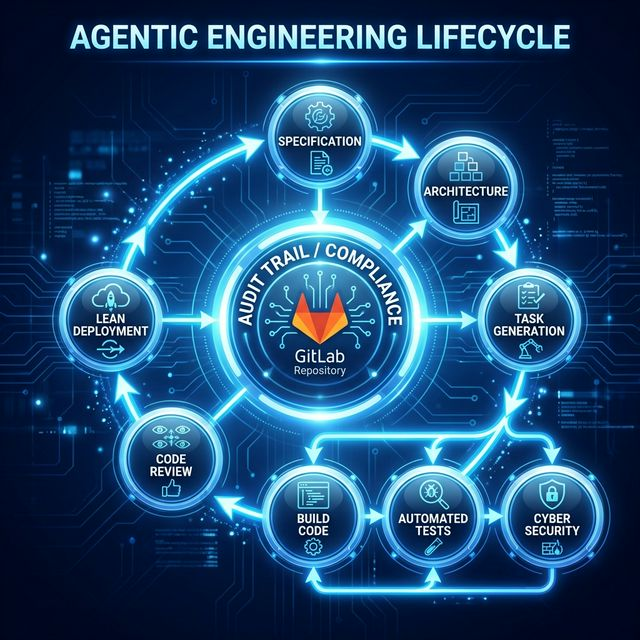
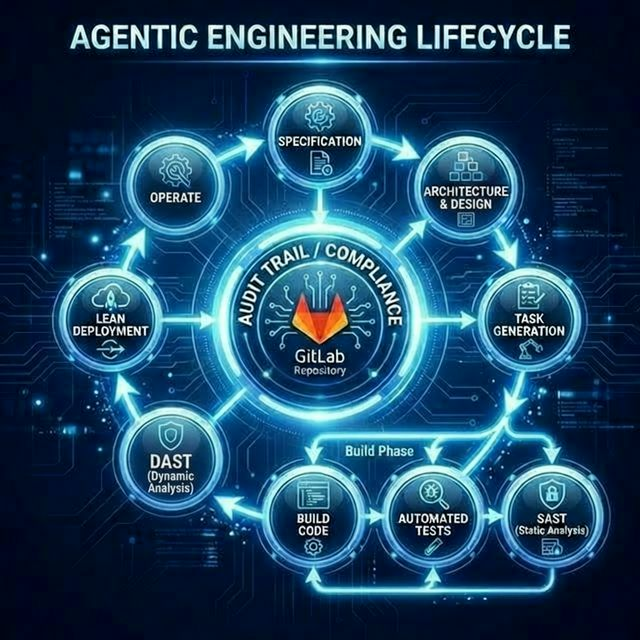
feat: Enhance the engineering lifecycle with explicit SAST, DAST, and Operate phases, and update AI roadmap categories.

diff --git a/content/engineering/engineering_lifecycle/index.md b/content/engineering/engineering_lifecycle/index.md
@@ -31,11 +31,13 @@ graph TD
     subgraph Parallel Execution
         Build["4. Building Code<br/>(Agent Workbench)"]
         Test["5. Automated Tests"]
-        Security["6. Cyber/Security Agent"]
+        SAST["6. SAST<br/>(Static Analysis)"]
     end
     
     Review["7. Code Review & Auditing<br/>(GitLab MR)"]
     Deploy["8. Lean Deployment<br/>(Kanban to Prod)"]
+    DAST["9. DAST & Monitoring<br/>(Dynamic Analysis)"]
+    Operate["10. Operate & Observability<br/>(Production)"]
     
     %% Center / Repository / Audit
     GitLab[("GitLab Repository<br/>(Source of Truth)")]
@@ -52,33 +54,43 @@ graph TD
     %% The Fork
     TaskGen -->|Decomposed| Build
     TaskGen -->|Decomposed| Test
-    TaskGen -->|Decomposed| Security
+    TaskGen -->|Decomposed| SAST
     
     %% Convergence to Review
     Build -->|MR| Review
     Test -->|MR| Review
-    Security -->|Clearance| Review
+    SAST -->|Clearance| Review
     
     %% Iterative Feedback Loops
     Review -.->|Logic Flaw| TaskGen
     Review -.->|Bug/Fix Required| Build
     Review -.->|Missing Coverage| Test
-    Review -.->|Vulnerability Found| Security
+    Review -.->|Vulnerability Found| SAST
     
-    %% Final deployment
+    %% Parallel post-review
     Review -->|Approved| Deploy
+    Review -->|Approved| DAST
+    
+    %% Operate Phase
+    Deploy --> Operate
+    DAST --> Operate
+    Operate -->|New Feature Ideas| Spec
     
     %% Audit & GitLab links
     Build -.-> GitLab
     Test -.-> GitLab
-    Security -.-> GitLab
+    SAST -.-> GitLab
     Review -.-> GitLab
+    DAST -.-> GitLab
+    Operate -.-> GitLab
     
     Spec ===>|Logs| Audit
     Arch ===>|Logs| Audit
     TaskGen ===>|Logs| Audit
     GitLab ===>|Commits/Revisions| Audit
     Deploy ===>|Release Tags| Audit
+    DAST ===>|Scan Reports| Audit
+    Operate ===>|Usage Metrics| Audit
 ```
 
 ---
@@ -123,11 +135,11 @@ Code and the tests that validate it are generated synchronously by agents. Test-
 * **Agentic Tools Used**: Windsurf, GitHub Copilot.
 * **Deep Dive**: [Agent-Driven TDD and Test Generation](test_generation.md) (Coming Soon)
 
-## 6. Cyber / Security Agent (Parallel Track C)
+## 6. SAST Agent (Parallel Track C)
 
-As soon as a task is generated, security tools begin evaluating the proposed dependencies, architecture, and code snippets.
+As soon as a task is generated, static analysis tools begin evaluating the proposed dependencies, architecture, and code snippets during the build phase.
 
-* **The Goal**: A specialized **Cyber/Security Agent** (e.g., SAST, DAST, dependency scanners) automatically audits the work for vulnerabilities, hardcoded secrets, and compliance violations before it can be merged.
+* **The Goal**: A specialized **SAST Agent** automatically audits the work for vulnerabilities, hardcoded secrets, and compliance violations before it can be merged.
 * **Agentic Tools Used**: GitLab CI/CD, LLM Security Scanners.
 * **Deep Dive**: [Securing and Validating Agentic Code in CI/CD](ci_cd_security.md) (Coming Soon)
 
@@ -145,3 +157,19 @@ We prioritize continuous delivery of validated, bite-sized tasks over massive sp
 
 * **The Goal**: Utilize a Lean, Kanban-style flow where tickets move from Specification directly through to Production the moment they clear the Code Review and pipeline. This ensures AI-generated features are shipped iteratively and incrementally, drastically reducing integration risk and time-to-market.
 * **Deep Dive**: [Lean Deployments in an Agentic Workflow](lean_deployment.md) (Coming Soon)
+
+## 9. DAST (Post-Deployment Monitoring)
+
+After the code is deployed to a live environment, Dynamic Application Security Testing (DAST) agents simulate real-world attacks.
+
+* **The Goal**: Continuously monitor the running application for exploitable vulnerabilities that static analysis might have missed. If a vulnerability is found, it automatically generates a new task in the backlog.
+* **Agentic Tools Used**: Automated DAST scanners, Attack Simulation Agents.
+* **Deep Dive**: [Continuous Monitoring and DAST](dast_monitoring.md) (Coming Soon)
+
+## 10. Operate & Observability (Production)
+
+Once code is safely deployed and continuously scanned, the system enters the long-term Operate phase.
+
+* **The Goal**: Measure application performance and gather user usage metrics to feed new ideas back into the Specification phase. Agentic observability tools analyze log data to uncover scaling bottlenecks and preemptively draft new feature or refactor specifications.
+* **Agentic Tools Used**: AI-Assisted APM tools (Datadog Watchdog, New Relic AI).
+* **Deep Dive**: [AI Observability and Operations](operations.md) (Coming Soon)

diff --git a/content/ai/ai_engineering_roadmap/index.md b/content/ai/ai_engineering_roadmap/index.md
@@ -3,7 +3,7 @@ title: "AI Engineering Roadmap"
 summary: "How to move AI Engineering from Current State to Target State"
 draft: false
 tags: ["ai", "engineering", "roadmap"]
-categories: ["ai"]
+categories: ["ai", "engineering"]
 author: "Gary Thomas"
 date: 2026-02-22
 cover:
